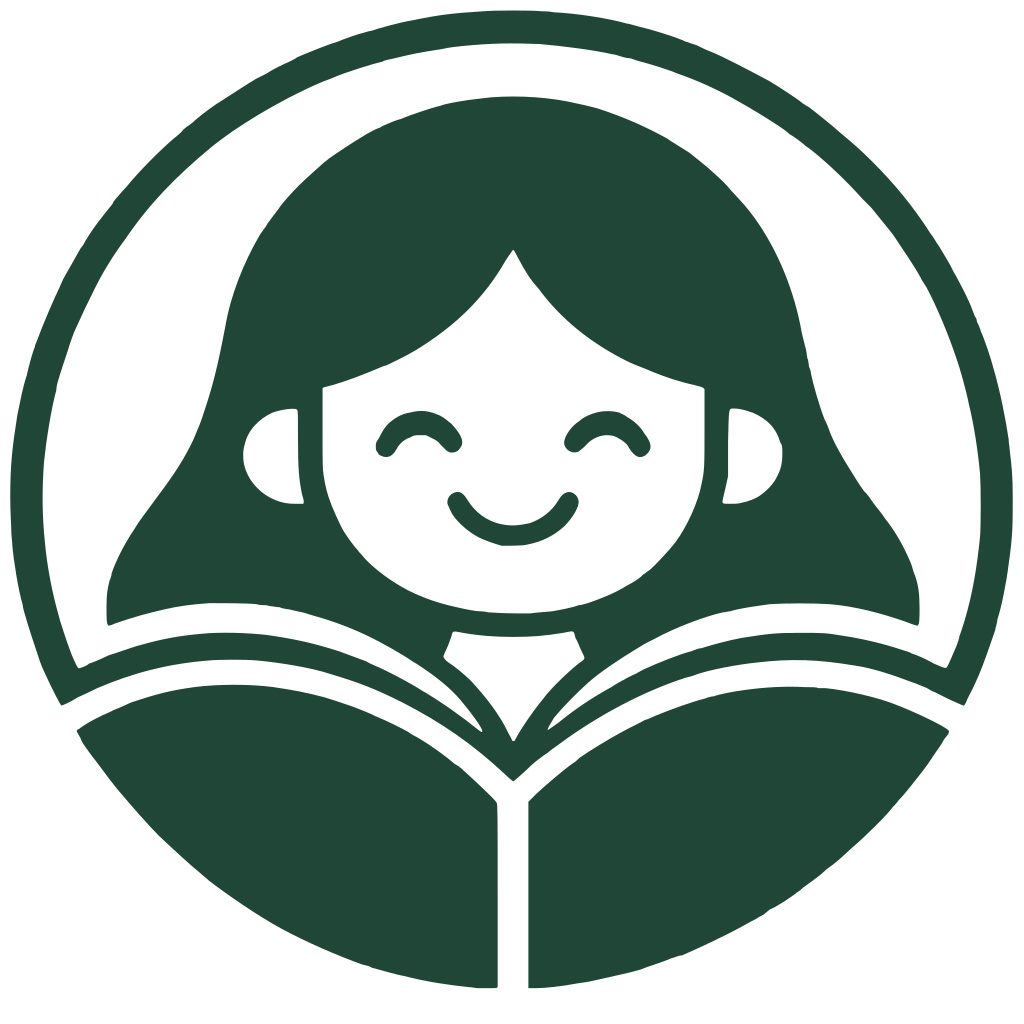
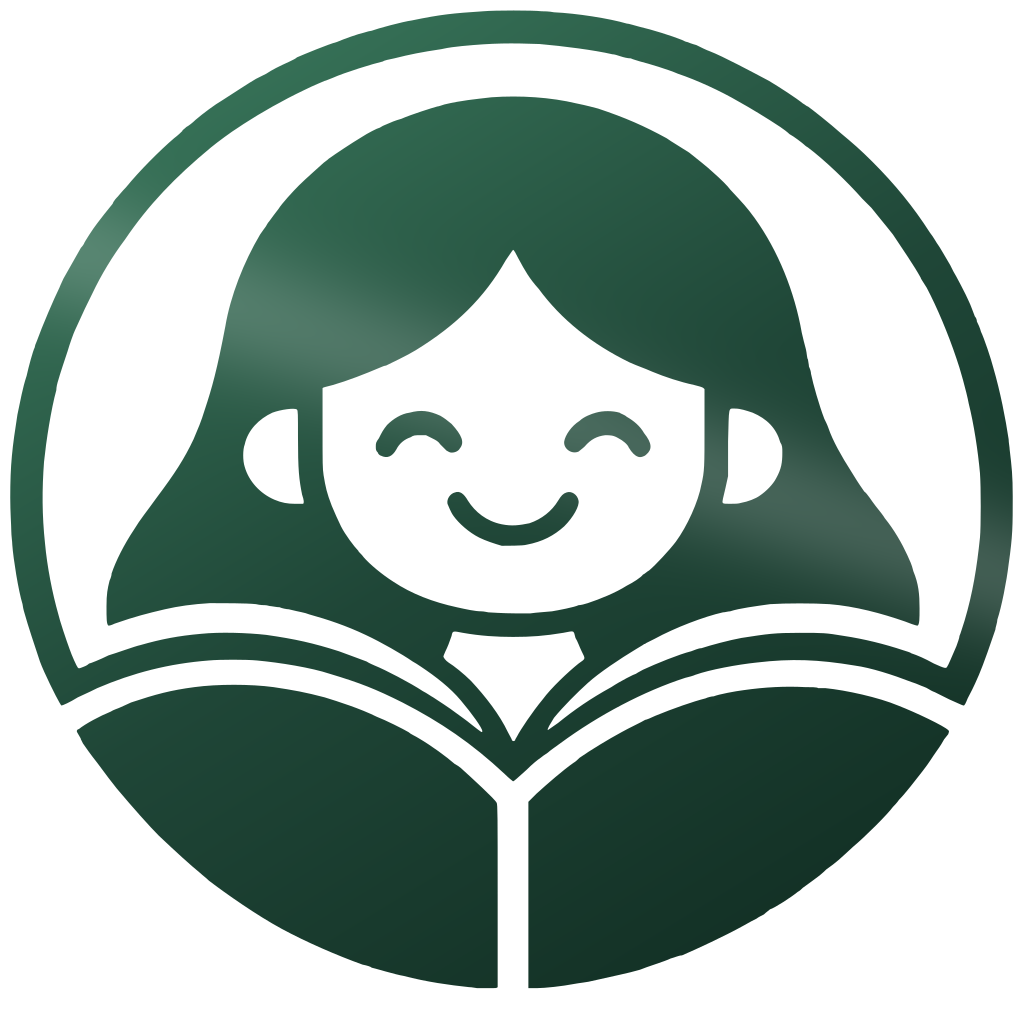
앱 아이콘 로고에 초록 그라데이션(밝은 에메랄드→짙은 숲색, 은은한 광택 띠). 꿈 인터뷰: 사진 올리기를 작은 '📷 사진' 버튼으로, 설명 문구와 '왜 이 질문?' 줄 삭제
Claude-Session: https://claude.ai/code/session_013v9YWfuVk74Go5gSgEZhrT

diff --git a/app/source.html b/app/source.html
@@ -1846,7 +1846,9 @@ body:has(.wrap.shopin) #legal a{color:inherit}
 .vbz-clip{position:absolute;left:50%;top:-7px;width:64px;height:14px;transform:translateX(-50%);border-radius:2px;background:linear-gradient(#FBE3A8,#D9AE62 55%,#B3874A);box-shadow:0 1px 2px rgba(0,0,0,.3)}
 .vbz-q{margin:0;font-family:var(--f-display);font-size:19px;line-height:1.5;color:#2E2A26;word-break:keep-all}
 .vbz textarea{border-radius:10px;font-size:16px;min-height:84px;background:#fff}
-.vbz-pic{display:flex;flex-direction:column;gap:6px}.vbz-pic small{font-size:11.5px;color:#8A7F73}
+.vbz-pic{display:flex;justify-content:flex-start}
+.vbz-pic .vbm-b{font-size:12.5px;padding:5px 12px}
+.vbm{display:flex;align-items:center;gap:6px}.vbm img{width:44px;height:44px;object-fit:cover;border-radius:6px}.vbm .chip{font-size:12px;padding:4px 10px}
 .vbz-ref{margin:0;font-size:11px;color:#8A7F73}
 .vbz-nav{display:grid;grid-template-columns:1fr 2fr;gap:10px}.vbz-nav .btn{min-height:48px;border-radius:12px}
 .vbz-nav .btn:not(.ghost){background:#1F4637;border-color:#1F4637;color:#FFF8EA;font-weight:700}
@@ -2315,6 +2317,8 @@ function vbBoardHTML(v){
     ${(()=>{const P=Object.entries(v.pub||{}).filter(([k,p])=>p&&p.u&&!(v.img||{})[k]);return P.length?`<p class="vcred">공개 사진: ${P.map(([,p])=>`${p.src?`<a href="${esc(p.src)}" target="_blank" rel="noopener">${esc(p.by)}</a>`:esc(p.by)} (${esc(p.lic)})`).join(' · ')} · Openverse</p>`:''})()}
     <div class="vbf">002BOOK · 꿈이 이루어지는 곳이 천국이다</div></div></details></div>`;
 }
+/* 꿈 인터뷰용 작은 사진 버튼(2026-11-26): 설명 없이 '📷 사진'만, 올리면 작은 미리보기 + 빼기 */
+const vbMini=(k,src)=>src?`<span class="vbm"><img src="${src}" alt="올린 사진"><label class="chip up">바꾸기<input type="file" accept="image/*" data-vbimg="${k}"></label><button type="button" class="chip" data-act="vbimgdel" data-k="${k}">빼기</button></span>`:`<label class="chip up vbm-b">📷 사진<input type="file" accept="image/*" data-vbimg="${k}"></label>`;
 const vbThumb=(k,src)=>src?`<span class="vbph"><img src="${src}" alt="올린 사진"></span><span class="vbpa"><label class="chip up">📷 사진 바꾸기<input type="file" accept="image/*" data-vbimg="${k}"></label><button type="button" class="chip" data-act="vbimgdel" data-k="${k}">사진 빼기</button></span>`:`<label class="vbup up"><i>📷</i><span><b>사진 올리기</b><small>꿈을 닮은 실제 사진을 붙이면 보드에 그대로 보여요</small></span><input type="file" accept="image/*" data-vbimg="${k}"></label>`;
 function vbCusRow(c,I){I=I||S.vbImgs||{};const sel=VSEC.map(([s,,ko])=>`<option value="${s}" ${c.sec===s?'selected':''}>${ko}</option>`).join('');
   return `<div class="vbq cus" data-cid="${c.id}"><div class="vbcr"><select name="csec-${c.id}" aria-label="붙일 자리">${sel}</select><button type="button" class="chip" data-act="vbdel" data-k="${c.id}">삭제</button></div><label for="vbc-${c.id}">✨ 꿈을 이룬 나의 모습을 적어 주세요<input id="vbc-${c.id}" name="ctext-${c.id}" maxlength="60" placeholder="예: 우리 가족과 오로라를 보고 있어요" value="${esc(c.text||'')}"></label><div class="vbqo"><select name="when-${c.id}" aria-label="이루는 때">${vbWhenOpts(c.when)}</select><span class="vbqi" id="vbth-${c.id}">${vbThumb(c.id,I[c.id])}</span></div></div>`}
@@ -2333,7 +2337,7 @@ async function vbImgUp(k,file){
     const iw=im.naturalWidth,ih=im.naturalHeight,s=Math.min(1,400/Math.max(iw,ih)),W=Math.max(1,Math.round(iw*s)),H=Math.max(1,Math.round(ih*s));
     const cv=document.createElement('canvas');cv.width=W;cv.height=H;const cx=cv.getContext('2d');cx.fillStyle='#fff';cx.fillRect(0,0,W,H);cx.drawImage(im,0,0,W,H);
     let q=.82,d=cv.toDataURL('image/jpeg',q);while(d.length>36000&&q>.4){q-=.1;d=cv.toDataURL('image/jpeg',q)}
-    S.vbImgs=S.vbImgs||{};S.vbImgs[k]=d;S.vbIr=S.vbIr||{};S.vbIr[k]=+(iw/ih).toFixed(3);const t=document.getElementById('vbth-'+k);if(t)t.innerHTML=vbThumb(k,d);
+    S.vbImgs=S.vbImgs||{};S.vbImgs[k]=d;S.vbIr=S.vbIr||{};S.vbIr[k]=+(iw/ih).toFixed(3);const t=document.getElementById('vbth-'+k);if(t)t.innerHTML=(t.dataset.small?vbMini:vbThumb)(k,d);
   }catch(e){toast('사진을 넣지 못했어요. 다른 사진으로 해 주세요.')}finally{URL.revokeObjectURL(url)}
 }
 /* 꿈 인터뷰(2026-11-26, Figma 10): 심리학 연구에 기댄 10문항을 '지금의 나 → 바라는 나 → 최고의 미래 → 구체화 → 장애물 → 실행 계획' 흐름으로 하나씩 묻는다.
@@ -2357,8 +2361,7 @@ function vbWizHTML(){const W=S.vbW;const n=W.n,[k,stage,,ex,ref]=VBW[n];const A=
   return `<div class="vbz"><div class="vbz-h"><small>꿈 인터뷰 ${n+1} / ${VBW.length} · ${stage}</small><ol class="vbz-bar" aria-hidden="true">${VBW.map((_,i)=>`<li class="${i<=n?'on':''}"></li>`).join('')}</ol></div>
     <div class="vbz-c"><span class="vbz-clip" aria-hidden="true"></span><h3 class="vbz-q">${esc(vbWQ(n,A))}</h3>
       <textarea id="vbz-in" maxlength="60" rows="3" placeholder="${esc(ex)}" aria-label="답 적기">${esc(A[k]||'')}</textarea>
-      ${pic?`<div class="vbz-pic"><span class="vbqi" id="vbth-${k}">${vbThumb(k,I[k])}</span><small>사진이 없으면 꿈과 어울리는 공개 사진을 찾아 붙여요</small></div>`:''}
-      <p class="vbz-ref">왜 이 질문? ${esc(ref)}</p></div>
+      ${pic?`<div class="vbz-pic" id="vbth-${k}" data-small="1">${vbMini(k,I[k])}</div>`:''}</div>
     <div class="vbz-nav"><button class="btn ghost" data-act="vbwprev" ${n?'':'disabled'}>이전</button><button class="btn" data-act="vbwnext">${last?'✨ 비전보드 만들기':'다음'}</button></div>
     <button class="lnk vbz-skip" data-act="vbwskip">${last?'건너뛰고 만들기':'이 질문 건너뛰기'}</button></div>`}
 function vbWizSave(){const W=S.vbW;if(!W)return;const el=document.getElementById('vbz-in');if(el)W.a[VBW[W.n][0]]=String(el.value||'').trim().slice(0,60)}
@@ -6175,7 +6178,7 @@ document.addEventListener('click',async e=>{
     case 'vbaskgo':vbAnswer();break;
     case 'vbasknext':S.vbAsk=vbPickQ(vbOf(),S.vbAsk&&S.vbAsk.id);S.vbImgs=null;S.vbIr=null;renderLayers();break;
     case 'vbaskx':S.vbAsk=null;S.vbImgs=null;S.vbIr=null;renderLayers();break;
-    case 'vbimgdel':{if(S.vbImgs)delete S.vbImgs[d.k];if(S.vbIr)delete S.vbIr[d.k];const t=document.getElementById('vbth-'+d.k);if(t)t.innerHTML=vbThumb(d.k,'');break}
+    case 'vbimgdel':{if(S.vbImgs)delete S.vbImgs[d.k];if(S.vbIr)delete S.vbIr[d.k];const t=document.getElementById('vbth-'+d.k);if(t)t.innerHTML=(t.dataset.small?vbMini:vbThumb)(d.k,'');break}
     case 'vbremake':if(!S.vbBusy)vbMake();break;
     case 'vbsave':vbSave(false);break;
     case 'vbsaveall':vbSave(true);break;
